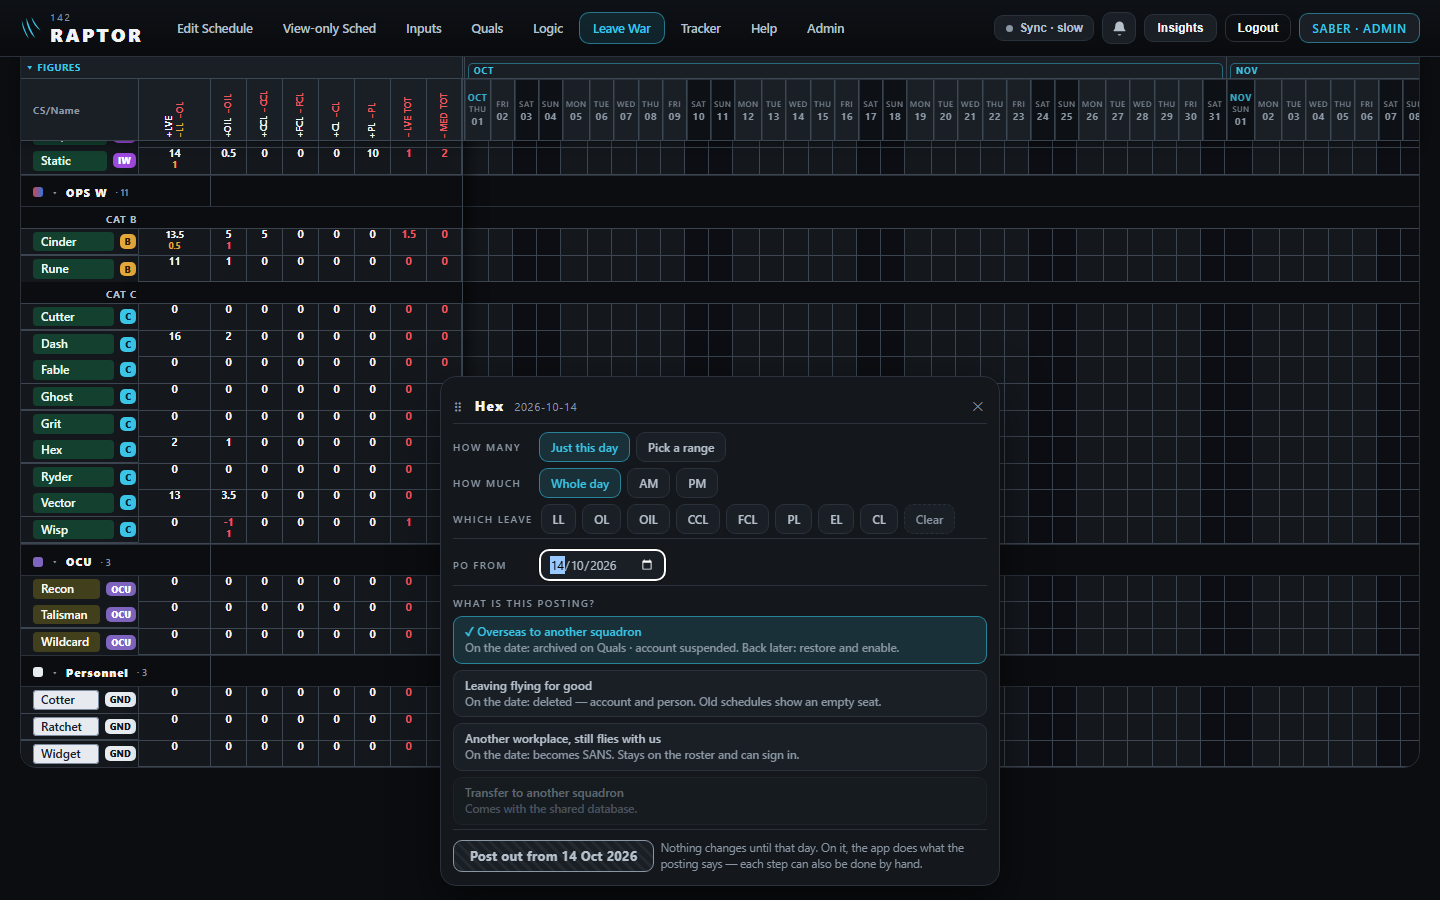
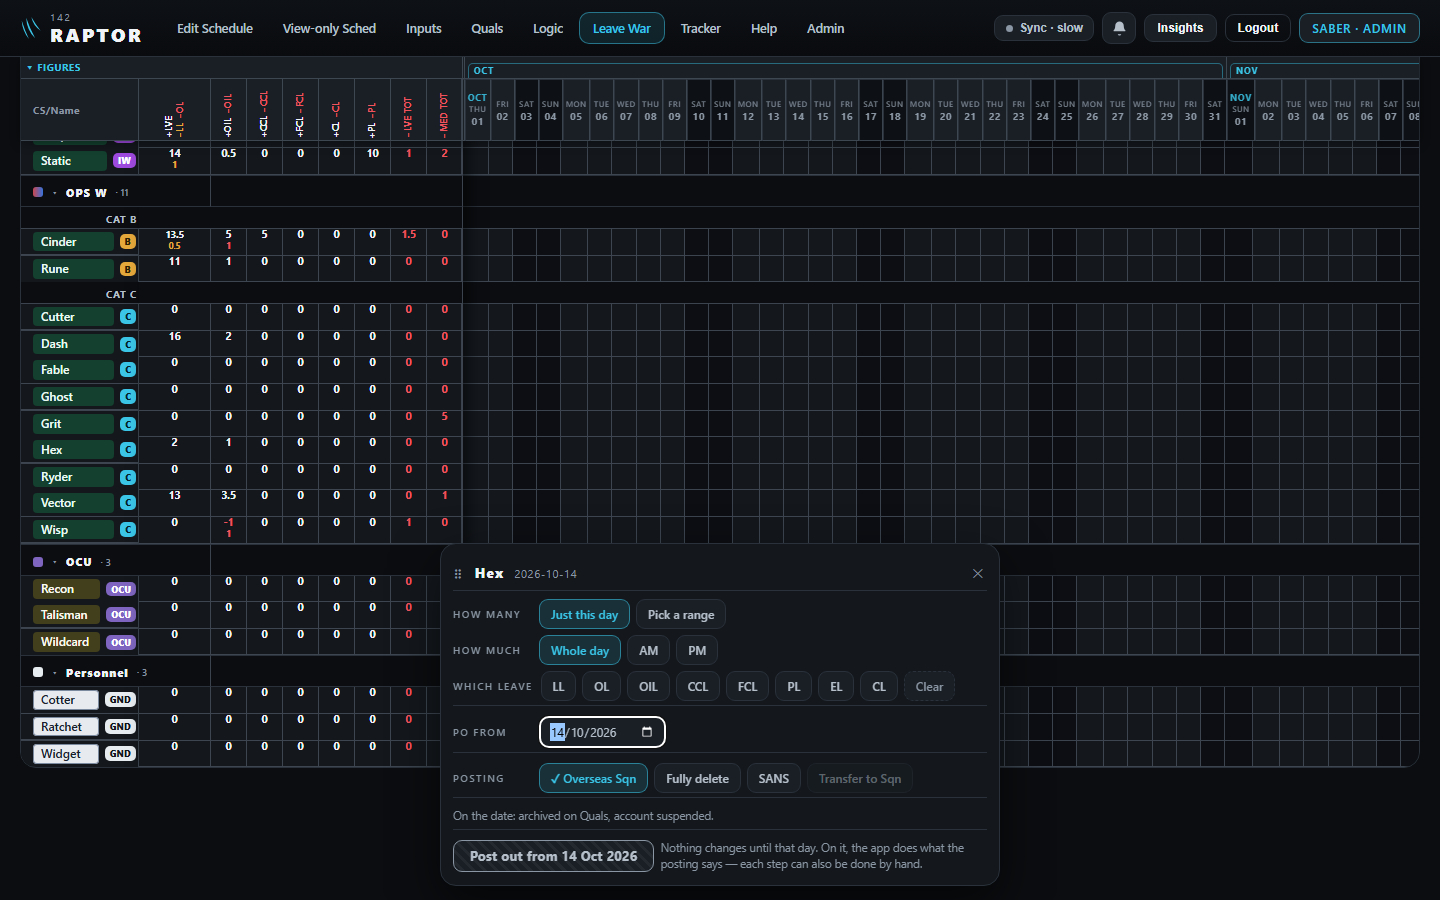
rulings D294-D296 (his look at the post-out mock-up: four short chips 'Overseas Sqn' / 'Fully delete' / 'SANS' / 'Transfer to Sqn', the back-prompt lined up with the table; an archived man renamed directly, Restore offering it on the spot; the guest mark is A, the orange corner) -- the mock-up redra

Changed region(s): [[0.3125, 0.4356, 0.6875, 0.9333], [0.5938, 0.4356, 0.6875, 0.4978]]

diff --git a/raptor-port/docs/mock/post-out.html b/raptor-port/docs/mock/post-out.html
@@ -68,11 +68,12 @@
   </section>
 
   <section>
-    <div class="head"><h2>1 · On the Leave War, you say what the posting is</h2><span class="rul">D229</span></div>
-    <p>Tap a day on his row, then <b>PO</b>. After the date, the one "Archive on PO date" switch becomes a choice of four.
-      Nothing happens until that day; on it, the app does what the posting says.</p>
+    <div class="head"><h2>1 · On the Leave War, you say what the posting is</h2><span class="rul">D229 · D294</span></div>
+    <p>Tap a day on his row, then <b>PO</b>. After the date, the one "Archive on PO date" switch becomes four short
+      choices — <b>Overseas Sqn · Fully delete · SANS · Transfer to Sqn</b> (the last one later) — with one line saying what
+      the chosen one does on the date. Nothing happens until that day.</p>
     <div class="pics">
-      <figure class="wide"><img src="img/post-out/desktop-1-postout-sheet.png" alt="The Leave War post-out sheet asking what the posting is, with four choices"><figcaption><span class="tag drawn">drawn</span>the four choices · desktop</figcaption></figure>
+      <figure class="wide"><img src="img/post-out/desktop-1-postout-sheet.png" alt="The Leave War post-out sheet asking what the posting is, with four choices"><figcaption><span class="tag drawn">drawn</span>the four choices, in your words (D294) · desktop</figcaption></figure>
       <figure class="phone"><img src="img/post-out/phone-1-postout-sheet.png" alt="The same post-out sheet on a phone"><figcaption><span class="tag drawn">drawn</span>on a phone</figcaption></figure>
     </div>
   </section>
@@ -92,7 +93,7 @@
     <p>His quals and CAT are kept exactly as he left them. When you restore him on Quals (and enable his account), a line
       asks you to check them, with a button straight to his row. It changes nothing by itself.</p>
     <div class="pics">
-      <figure class="wide"><img src="img/post-out/desktop-3-back.png" alt="Quals, WSOs: a banner saying Hex is back, check his quals, with his row outlined"><figcaption><span class="tag drawn">drawn</span>the prompt on Quals</figcaption></figure>
+      <figure class="wide"><img src="img/post-out/desktop-3-back.png" alt="Quals, WSOs: a banner saying Hex is back, check his quals, with his row outlined"><figcaption><span class="tag drawn">drawn</span>the prompt on Quals, lined up with the table (D294)</figcaption></figure>
     </div>
   </section>
 
@@ -119,13 +120,13 @@
   </section>
 
   <section>
-    <div class="head"><h2>6 · Names: an archived man's callsign can go to someone new</h2><span class="rul">D286</span></div>
+    <div class="head"><h2>6 · Names: an archived man's callsign can go to someone new</h2><span class="rul">D286 · D295</span></div>
     <p>When someone asks for access with a callsign only an archived man holds, Approve opens on <b>New person</b> with a
-      line saying so. If the archived man is ever restored while his callsign is in use, Restore stops and says one of the
-      two must be renamed first; it never renames anyone by itself.</p>
+      line saying so. An archived man can be <b>renamed right on the archived list</b>; and if you restore him while his
+      callsign is in use, Restore asks for another callsign on the spot — one step, no juggling.</p>
     <div class="pics">
       <figure class="mid"><img src="img/post-out/desktop-6a-approve-archived-name.png" alt="Approve on New person for Ace, with a line saying an archived man already has the callsign Ace"><figcaption><span class="tag drawn">drawn</span>approving a new Ace</figcaption></figure>
-      <figure class="wide"><img src="img/post-out/desktop-6b-restore-refused.png" alt="Quals archived list with Ace, and a message: Ace is taken on the roster, rename one of them before restoring"><figcaption><span class="tag drawn">drawn</span>Restore refused while the name is taken</figcaption></figure>
+      <figure class="wide"><img src="img/post-out/desktop-6b-restore-rename.png" alt="Quals archived list: Ace with Rename and Restore buttons, and Restore asking for another callsign because Ace is taken"><figcaption><span class="tag drawn">drawn</span>Rename on the archived row; Restore asking for a new callsign</figcaption></figure>
     </div>
   </section>
 
@@ -142,12 +143,12 @@
   </section>
 
   <section>
-    <div class="head"><h2>8 · Guest flyers from another community — a mark on the puck</h2><span class="rul later">later · D288 · D289</span></div>
+    <div class="head"><h2>8 · Guest flyers from another community — a mark on the puck</h2><span class="rul later">later · D288 · D289 · D296</span></div>
     <p>A puck is a fixed width and already shows only about 9–10 letters, so a guest's mark can't be text. Three ways to
       mark him without taking a letter, including next to a warning chip. Wherever there's room (lists, pickers, a tap or
       hover) he reads in full: <b>Viper · F-16</b>.</p>
     <div class="pics">
-      <figure class="wide"><img src="img/post-out/desktop-8-guest-marks.png" alt="Pucks: ours, and three ways to mark a guest — an orange corner, an orange line along the top, an orange dot — alone and beside a warning chip"><figcaption><span class="tag drawn">drawn</span>A, B and C — pick one</figcaption></figure>
+      <figure class="wide"><img src="img/post-out/desktop-8-guest-marks.png" alt="Pucks: ours, and three ways to mark a guest — an orange corner, an orange line along the top, an orange dot — alone and beside a warning chip"><figcaption><span class="tag drawn">drawn</span>A, B and C — <b>you chose A, the orange corner</b> (D296)</figcaption></figure>
     </div>
   </section>
 
@@ -155,9 +156,7 @@
     <div class="head"><h2>What I need from you</h2></div>
     <ol>
       <li><b>Approve the mock-up</b>, or tell me what to change (a section number is enough).</li>
-      <li><b>The guest mark (section 8): A, B or C?</b> I lean to <b>A, the orange corner</b>: the easiest to spot on an
-        ordinary puck. On a puck with a red warning chip it's a little less distinct; B looks the same either way but is
-        subtler. It's only needed later, with the shared database.</li>
+      <li><b>Section 5:</b> should the days a deleted man already flew keep his puck? (See my answer in the chat.)</li>
     </ol>
   </section>
 </main>

diff --git a/.claude/rules/decisions/how-we-work.md b/.claude/rules/decisions/how-we-work.md
@@ -9,6 +9,9 @@ never pay or money).
 
 | # | Date | His ruling, in his words where short enough | What it means | Where it lives now |
 |---|---|---|---|---|
+| D296 | 27 Sep 26 | **"8. A"** — to *"The guest mark (section 8): A, B or C?"* on the post-out mock-up | **A GUEST FROM ANOTHER COMMUNITY IS MARKED BY AN ORANGE CORNER ON HIS PUCK (option A).** Settles D289's form, for when it is built (with the shared database, D288). Taken knowing the agent's caveat: beside a red warning chip the corner is a little less distinct | `raptor-port/docs/mock/post-out.html` §8; `OUTSTANDING.md` `[XFER]` |
+| D295 | 27 Sep 26 | *"so in order to rename, we must first change the new person, then restore the archived person in order to change his name? Can we just change the archived name directly?"* — on the mock-up's §6 (Restore refused while the callsign is taken) | **AN ARCHIVED MAN CAN BE RENAMED DIRECTLY, ON QUALS' ARCHIVED LIST.** A name clash on restore is then solved by renaming the archived man (or the new one) — no restore-first. **Refines D286** (whose reading (1) — Restore refuses while the name is taken, never renaming anyone by itself — stands). **The agent's reading, stated to him so he can correct it:** a rename box on each archived row (admin only), and when Restore meets a taken callsign it offers that same box on the spot ("Ace is taken — give him another callsign"), so the rename and the restore are one step | `raptor-port/docs/mock/post-out.html` §6; `OUTSTANDING.md` `[POST-OUT-OUTCOMES]`; on build: `raptor-port/src/ui/QualsPage.tsx` (the archived list), `raptor-port/src/engine/slots.ts` (`renameCallsign`) |
+| D294 | 27 Sep 26 | **"1. can use less words and space to have these 4 options. Change to 'Overseas Sqn', 'Fully delete', 'SANS', 'Transfer to Sqn'."** · **"3. is there a blue box drawn? if yes can u draw it connected to the left edge."** — his look at the post-out mock-up (`docs/mock/post-out.html`) | **THE POST-OUT CHOICES ARE FOUR SHORT CHIPS — "Overseas Sqn", "Fully delete", "SANS", "Transfer to Sqn" — TAKING LITTLE ROOM; AND THE "HE'S BACK" LINE ON QUALS LINES UP WITH THE PAGE'S LEFT EDGE.** Replaces the mock-up's first drawing (four wide buttons, each with a sentence). **The agent's reading, stated to him so he can correct it:** one short line under the chips says what the chosen one does on the date (the words the buttons dropped); "Sqn" alone is fine — D58 bars a squadron NUMBER paired with it, and the app already shows "EXT SQN" | `raptor-port/docs/mock/post-out.html` §1 and §3; `OUTSTANDING.md` `[POST-OUT-OUTCOMES]` |
 | D293 | 27 Sep 26 | **"5. leave it"** — to *"A 'Sign up' button under the sign-in button: I recommend leaving it off … If new people seem confused once it's live, the cheap fix is one line under the button"* (after his own *"should we create a sign up button at the bottom of the login button to be less confusing, or honestly its ok because im not using the app as it is now"*) | **NO "SIGN UP" BUTTON ON THE SIGN-IN PAGE.** Anyone who signs in and is on no list lands on "Request access" by themselves (D204), and at the database step the sign-in is Microsoft's — a button would lead to the same place and hint that the app makes a password, which it never does. The page stays simple (7 Aug 26). **Kept in reserve, not built:** one line under the button — "New here? Sign in with your defence mail to ask for access." — if new people are confused once it is live | `raptor-port/docs/ui-contracts.md` §The access screens and the guest view; this row |
 | D292 | 27 Sep 26 | **"6. yes"** — to *"do you want the member/admin switch back, as described? That replaces your 25 Sep 'no preview as a member'"* (after his *"Can admins have the option to toggle between member and admin view? by just clicking on admin which has their name"*) | **AN ADMIN CAN SWITCH HIMSELF TO THE MEMBER VIEW AND BACK, BY TAPPING HIS NAME BADGE.** "SABER · ADMIN" ↔ "SABER · MEMBER": in the member view the app behaves exactly as for a member (his own Quals row and inputs only, no Admin tab, no Edit Schedule); a tap switches back; every sign-in starts as admin; he stays himself throughout — it changes what he may do, never who he is. **Replaces D166 (3)'s "no preview as a member"** (25 Sep 26 — his *"There isint a need for preview as a member"*); the rest of D166 stands ("View as" another PERSON stays gone). Built with `[POST-OUT-OUTCOMES]` (his yes to *"file it to build with the posting-out work"*). **The agent's reading, stated to him so he can correct it:** on a phone the switch sits in the drawer's account line, since the badge is not on the phone bar | `OUTSTANDING.md` `[POST-OUT-OUTCOMES]`; D166's row (3) marked; pointers in `raptor-port/docs/engine-rules.md` §Auth / roles, `raptor-port/docs/ui-contracts.md` (the role badge), `.claude/rules/decisions/leave-war.md` (the war's role writer); on build: `raptor-port/src/state/perms.ts` (the role in force), `raptor-port/src/ui/Shell.tsx`, `raptor-port/src/state/store.ts` (`resetSession`) |
 | D291 | 27 Sep 26 | **"4. yes"** — to *"build the posting-out work right after this PR merges, before the changes window?"* | **`[POST-OUT-OUTCOMES]` IS BUILT NEXT: STRAIGHT AFTER `[ACCOUNTS-NEW-PERSON]` MERGES, BEFORE `[DRAFT-PENDING]`.** Its own branch and its own FULL check (it touches accounts, who may sign in, the Leave War and Quals). **Amends D203's order in part** (a step inserted after accounts); D210's own check for the changes window stands | `OUTSTANDING.md` (the priority list); `HANDOFF.md` (Next, in order) |

diff --git a/OUTSTANDING.md b/OUTSTANDING.md
@@ -299,7 +299,7 @@ person move between squadrons with data intact.
 - **D288 (27 Sep 26) — communities and guest flyers:** callsigns unique within a community (the F-15 one), not
   app-wide; a future F-16 community reuses them, and its men may fly with us as guests (tagged "Viper · F-16",
   picked from a guest list, never by typing a bare callsign). **D289:** a community = the squadrons of one aircraft
-  type; a guest always marked — on a puck a small colour mark, never text that hides the callsign (mock-up first).
+  type; a guest always marked — on a puck an orange corner (D296, option A of `docs/mock/post-out.html` §8).
 
 ### [TRK-ATTEMPTS] Keep a student's attempt history — OPEN (small, feature)
 Remember a student's *earlier* tries at an event, not just the latest grade. More a
@@ -1201,7 +1201,7 @@ everything that is his goes too (inputs, Leave War leave and OIL — nothing lef
 takes him off (pending on a published day); asks twice, cannot be undone. **Underneath — D290 "hidden mark":** his
 row is kept, marked deleted and invisible everywhere (the data model's tombstone), never erased. **And names — D286:** an archived man's callsign may go to a new person (today it is refused); restoring him while it
 is in use needs one of the two renamed first (Restore says so, renames nobody). Update `roster-add.ts` (its PID-01
-header and test), `ID_BY_CS` (points at the roster's man). **Mock-up:** `raptor-port/docs/mock/post-out.html` (+ its Artifact), 27 Sep 26 — his approval awaited. **With it — D292:** the admin's member view back (tap the badge: "SABER · ADMIN" ↔ "MEMBER"; perms read the role in
+header and test), `ID_BY_CS` (points at the roster's man). **Mock-up:** `raptor-port/docs/mock/post-out.html` (+ its Artifact), 27 Sep 26 — his first look: D294 (short chips "Overseas Sqn" · "Fully delete" · "SANS" · "Transfer to Sqn"), D295 (rename an archived man directly), D296 (guest mark A). **With it — D292:** the admin's member view back (tap the badge: "SABER · ADMIN" ↔ "MEMBER"; perms read the role in
 force). **Place — D291:** straight after `[ACCOUNTS-NEW-PERSON]` merges, before `[DRAFT-PENDING]`.
 ### [LOOK-435] His inputs from the look at PR #435 — the order is D173 (25 Sep 26)
 **Step 1 DONE 25 Sep 26:** D114's FULL check — evidence `raptor-port/docs/handpass/2026-09-25-amendment-batch.md` §9; two

diff --git a/DECISIONS.md b/DECISIONS.md
@@ -48,7 +48,7 @@ ruling, or an explicit no. **Not** ordinary task instructions ("run the tests", 
 
 | Area | File | Loads by itself | Rulings, newest first |
 |---|---|---|---|
-| How we work | `.claude/rules/decisions/how-we-work.md` | in EVERY session | D293, D292, D291, D290, D289, D288, D287, D286, D285, D284, D283, D282, D281, D280, D229, D228, D227, D226, D225, D224, D223, D222, D221, D220, D219, D217, D216, D215, D214, D213, D211, D210, D204, D203, D201, D200, D182, D180, D173, D166, D165, D106, D90, D162, D148, D147, D145, D144, D143, D141, D140, D138, D137, D136, D135, D151, D89, D87, D86, D85, D84, D78, D73, D72, D70, D69, D68, D67, D63, D62, D60, D59, D58, D57, D56, D54, D53, D30, D29, D23, D22, D17, D16, D14, D13, D12, D11, D10, D9, D8, D7, D6, D5, D4 |
+| How we work | `.claude/rules/decisions/how-we-work.md` | in EVERY session | D296, D295, D294, D293, D292, D291, D290, D289, D288, D287, D286, D285, D284, D283, D282, D281, D280, D229, D228, D227, D226, D225, D224, D223, D222, D221, D220, D219, D217, D216, D215, D214, D213, D211, D210, D204, D203, D201, D200, D182, D180, D173, D166, D165, D106, D90, D162, D148, D147, D145, D144, D143, D141, D140, D138, D137, D136, D135, D151, D89, D87, D86, D85, D84, D78, D73, D72, D70, D69, D68, D67, D63, D62, D60, D59, D58, D57, D56, D54, D53, D30, D29, D23, D22, D17, D16, D14, D13, D12, D11, D10, D9, D8, D7, D6, D5, D4 |
 | Tracker | `.claude/rules/decisions/tracker.md` | when a Tracker file is read (its code, docs, scripts, evidence) | D191, D190, D158, D157, D134, D132, D131, D130, D129, D128, D127, D126, D124, D123, D122, D121, D120, D64 |
 | Leave War | `.claude/rules/decisions/leave-war.md` | when a Leave War file is read (its code, docs, e2e, evidence) | D160, D159 |
 | Scheduler & amendments | `.claude/rules/decisions/scheduler.md` | when a scheduler, board, engine, amendment or storage file is read | D218, D212, D189, D188, D187, D186, D185, D184, D183, D179, D178, D177, D176, D175, D174, D172, D171, D170, D169, D168, D167, D119, D118, D117, D116, D114, D113, D111, D110, D109, D108, D107, D105, D103, D102, D101, D100, D99, D98, D97, D96, D95, D94, D93, D92, D91, D164, D161, D149, D77, D66, D65, D51, D50, D47, D45, D44, D41, D40, D39, D38, D37, D36, D33, D27 |
